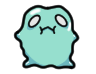
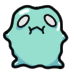
completed StudentHome

diff --git a/StudentTemp.html b/StudentTemp.html
@@ -1,0 +1,48 @@
+<!DOCTYPE html>
+<html lang="en">
+
+<head>
+    <meta http-equiv="Content-Type" content="text/html; charset=UTF-8">
+
+    <meta name="viewport" content="width=device-width, initial-scale=1, shrink-to-fit=no">
+    <meta name="description" content="">
+    <title>StudentHome</title>
+
+    <!-- Bootstrap core CSS -->
+    <link href="./css/bootstrap.min.css" rel="stylesheet">
+    <link rel="stylesheet" href="https://cdnjs.cloudflare.com/ajax/libs/font-awesome/5.15.1/css/all.min.css"
+        integrity="sha512-+4zCK9k+qNFUR5X+cKL9EIR+ZOhtIloNl9GIKS57V1MyNsYpYcUrUeQc9vNfzsWfV28IaLL3i96P9sdNyeRssA=="
+        crossorigin="anonymous" />
+    <link href="./css/StudentHome.css" rel="stylesheet">
+    <!-- Favicons -->
+    <link rel="icon" href="https://v4.bootcss.com/docs/assets/img/favicons/favicon.ico">
+</head>
+
+<body>
+    <header>
+        <div class="navbar navbar-dark bg-dark shadow-sm">
+            <div class="container d-flex justify-content-between">
+                <a href="#" class="navbar-brand d-flex align-items-center">
+                    <img src="asset/Amoeba.png" class="logo">
+                    <strong>Amoeba</strong>
+                </a>
+                <!-- <i class="fas fa-sign-out-alt" style="color:white"></i> -->
+            </div>
+        </div>
+        <div class="container d-flex justify-content-center text-center h5 align-items-center" style="background-color: #F7F7F7; height: 40px;">
+            <strong style="color: #D4D4D4;" class="text-center">嵌入式系統</strong>
+        </div>
+    </header>
+    <main role="main" class="text-center">
+
+        <form class="form-signin">
+            <h1 class="h3 mb-3 font-weight-normal">掃描體溫</h1>
+            <input type="text" id="inputStudentID" class="form-control" placeholder="學號" required="" autofocus="">
+            <input type="password" id="inputPassword" class="form-control" placeholder="密碼" required="">
+        </form>
+    </main>
+
+
+</body>
+
+</html>

diff --git a/StudentHome.html b/StudentHome.html
@@ -15,7 +15,7 @@
         crossorigin="anonymous" />
     <link href="./css/StudentHome.css" rel="stylesheet">
     <!-- Favicons -->
-    <link rel="icon" href="https://v4.bootcss.com/docs/assets/img/favicons/favicon.ico">
+    <link rel="icon" href="asset/Amoeba.png">
 </head>
 
 <body>
